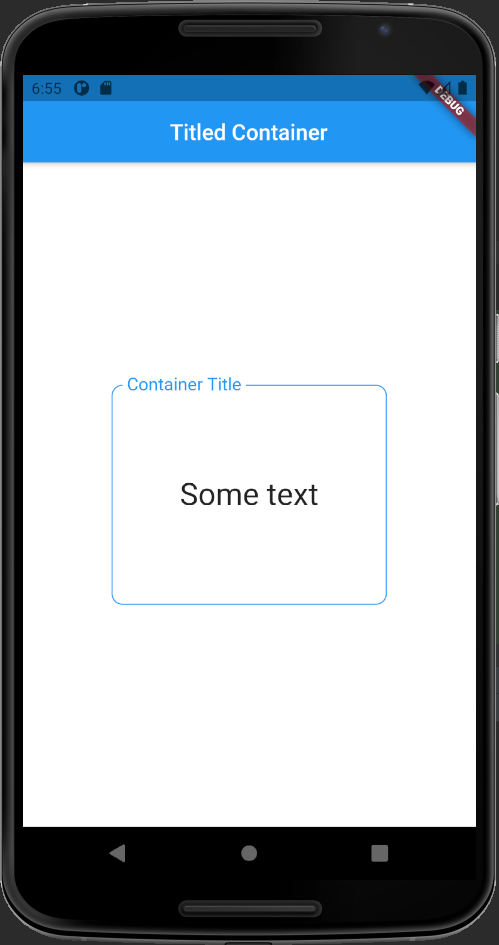
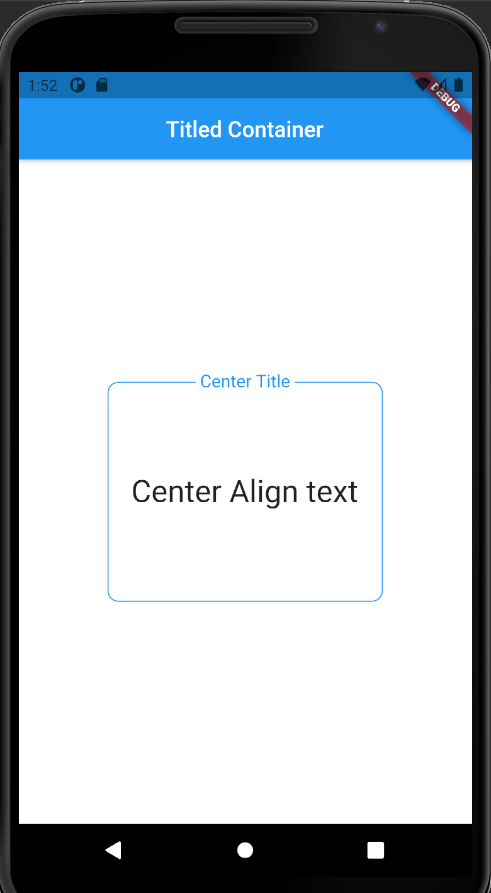
- added alignment for title

diff --git a/lib/flutter_titled_container.dart b/lib/flutter_titled_container.dart
@@ -2,22 +2,27 @@ import 'package:flutter/foundation.dart';
 import 'package:flutter/rendering.dart';
 import 'package:flutter/widgets.dart';
 
+enum TextAlignTitledContainer { Left, Center, Right }
+
 class TitledContainer extends SingleChildRenderObjectWidget {
   const TitledContainer({
     Key? key,
     required Widget child,
     titleColor,
     required this.title,
+    textAlign,
     fontSize,
     backgroundColor,
   })  : fontSize = fontSize ?? 14.0,
         titleColor = titleColor ?? const Color.fromRGBO(0, 0, 0, 1.0),
+        textAlign = textAlign ?? TextAlignTitledContainer.Left,
         backgroundColor = backgroundColor ?? const Color.fromRGBO(255, 255, 255, 1.0),
         super(key: key, child: child);
 
   final Color titleColor;
   final Color backgroundColor;
   final String title;
+  final TextAlignTitledContainer textAlign;
   final double fontSize;
 
   @override
@@ -27,6 +32,7 @@ class TitledContainer extends SingleChildRenderObjectWidget {
       title: title,
       fontSize: fontSize,
       backgroundColor: backgroundColor,
+      textAlign: textAlign,
     );
   }
 
@@ -36,6 +42,7 @@ class TitledContainer extends SingleChildRenderObjectWidget {
     renderObject..backgroundColor = backgroundColor;
     renderObject..title = title;
     renderObject..fontSize = fontSize;
+    renderObject..textAlign = textAlign;
   }
 }
 
@@ -45,8 +52,10 @@ class RenderTitledContainer extends RenderBox with RenderObjectWithChildMixin<Re
     required String title,
     required double fontSize,
     required Color backgroundColor,
+    required TextAlignTitledContainer textAlign,
   })   : _titleColor = titleColor,
         _title = title,
+        _textAlign = textAlign,
         _backgroundColor = backgroundColor,
         _fontSize = fontSize;
 
@@ -71,6 +80,14 @@ class RenderTitledContainer extends RenderBox with RenderObjectWithChildMixin<Re
   set title(String value) {
     if (_title == value) return;
     _title = value;
+    markNeedsPaint();
+  }
+
+  TextAlignTitledContainer get textAlign => _textAlign;
+  TextAlignTitledContainer _textAlign;
+  set textAlign(TextAlignTitledContainer value) {
+    if (_textAlign == value) return;
+    _textAlign = value;
     markNeedsPaint();
   }
 
@@ -117,7 +134,22 @@ class RenderTitledContainer extends RenderBox with RenderObjectWithChildMixin<Re
         minWidth: 0,
         maxWidth: size.width,
       );
-      final titleOffset = Offset(10, -fontSize / 2);
+
+      final TextPainter txtPainter = TextPainter(text: textSpan, textDirection: TextDirection.ltr);
+      txtPainter.layout(minWidth: 0, maxWidth: double.infinity);
+      print(txtPainter.size); //the TextSpan width
+      double xPos = 10.0;
+      switch (textAlign) {
+        case TextAlignTitledContainer.Center:
+          xPos = (size.width - txtPainter.size.width) / 2.0;
+          break;
+        case TextAlignTitledContainer.Right:
+          xPos = (size.width - txtPainter.size.width - 10);
+          break;
+        default:
+          xPos = 10.0;
+      }
+      final titleOffset = Offset(xPos, -fontSize / 2);
       textPainter.paint(canvas, titleOffset);
 
       canvas.restore();

diff --git a/example/lib/main.dart b/example/lib/main.dart
@@ -32,8 +32,9 @@ class _MyHomePageState extends State<MyHomePage> {
       body: Center(
         child: TitledContainer(
           titleColor: Colors.blue,
-          title: 'Container Title',
-          fontSize: 16.0,
+          title: 'Center Title',
+          textAlign: TextAlignTitledContainer.Left,
+          fontSize: 14.0,
           backgroundColor: Colors.white,
           child: Container(
             width: 250.0,
@@ -49,7 +50,7 @@ class _MyHomePageState extends State<MyHomePage> {
             ),
             child: Center(
               child: Text(
-                'Some text',
+                'Center Align text',
                 style: TextStyle(fontSize: 28.0),
               ),
             ),

diff --git a/README.md b/README.md
@@ -2,7 +2,7 @@
 
 Display a title on top of the Container.
 
-The widget must have a child container : Container
+The widget works best with a child container : Container
 
 You can set the following properties :
 
@@ -10,10 +10,13 @@ You can set the following properties :
 - titleColor      - The color (foreground) fors title, default is black
 - fontSize        - The font size for title, default is 14.0
 - backgroundColor - The background color for title, default is white
+- textAlign       - The alignment for text. i.e. Lef, Center or Right
 
 See the screenshot
 
 ![](https://github.com/johandb/flutter_titled_container/blob/main/supplement/app.png)
+![](https://github.com/johandb/flutter_titled_container/blob/main/supplement/app-r.png)
+![](https://github.com/johandb/flutter_titled_container/blob/main/supplement/app-l.png)
 
 ## Example
 
@@ -53,6 +56,7 @@ class _MyHomePageState extends State<MyHomePage> {
         child: TitledContainer(
           titleColor: Colors.blue,
           title: 'Container Title',
+          textAlign: TextAlignTitledContainer.Center,
           fontSize: 16.0,
           backgroundColor: Colors.white,
           child: Container(

diff --git a/example/README.md b/example/README.md
@@ -36,6 +36,7 @@ class _MyHomePageState extends State<MyHomePage> {
         child: TitledContainer(
           titleColor: Colors.blue,
           title: 'Container Title',
+          textAlign: TextAlignTitledContainer.Center,
           fontSize: 16.0,
           backgroundColor: Colors.white,
           child: Container(

diff --git a/CHANGELOG.md b/CHANGELOG.md
@@ -1,3 +1,7 @@
+## [1.0.6] - May 31, 2021
+
+* Added text align for title. You can now align text Left, Center or Rigth
+
 ## [1.0.5] - April 19, 2021
 
 * Updated the description in pubspec.yml
